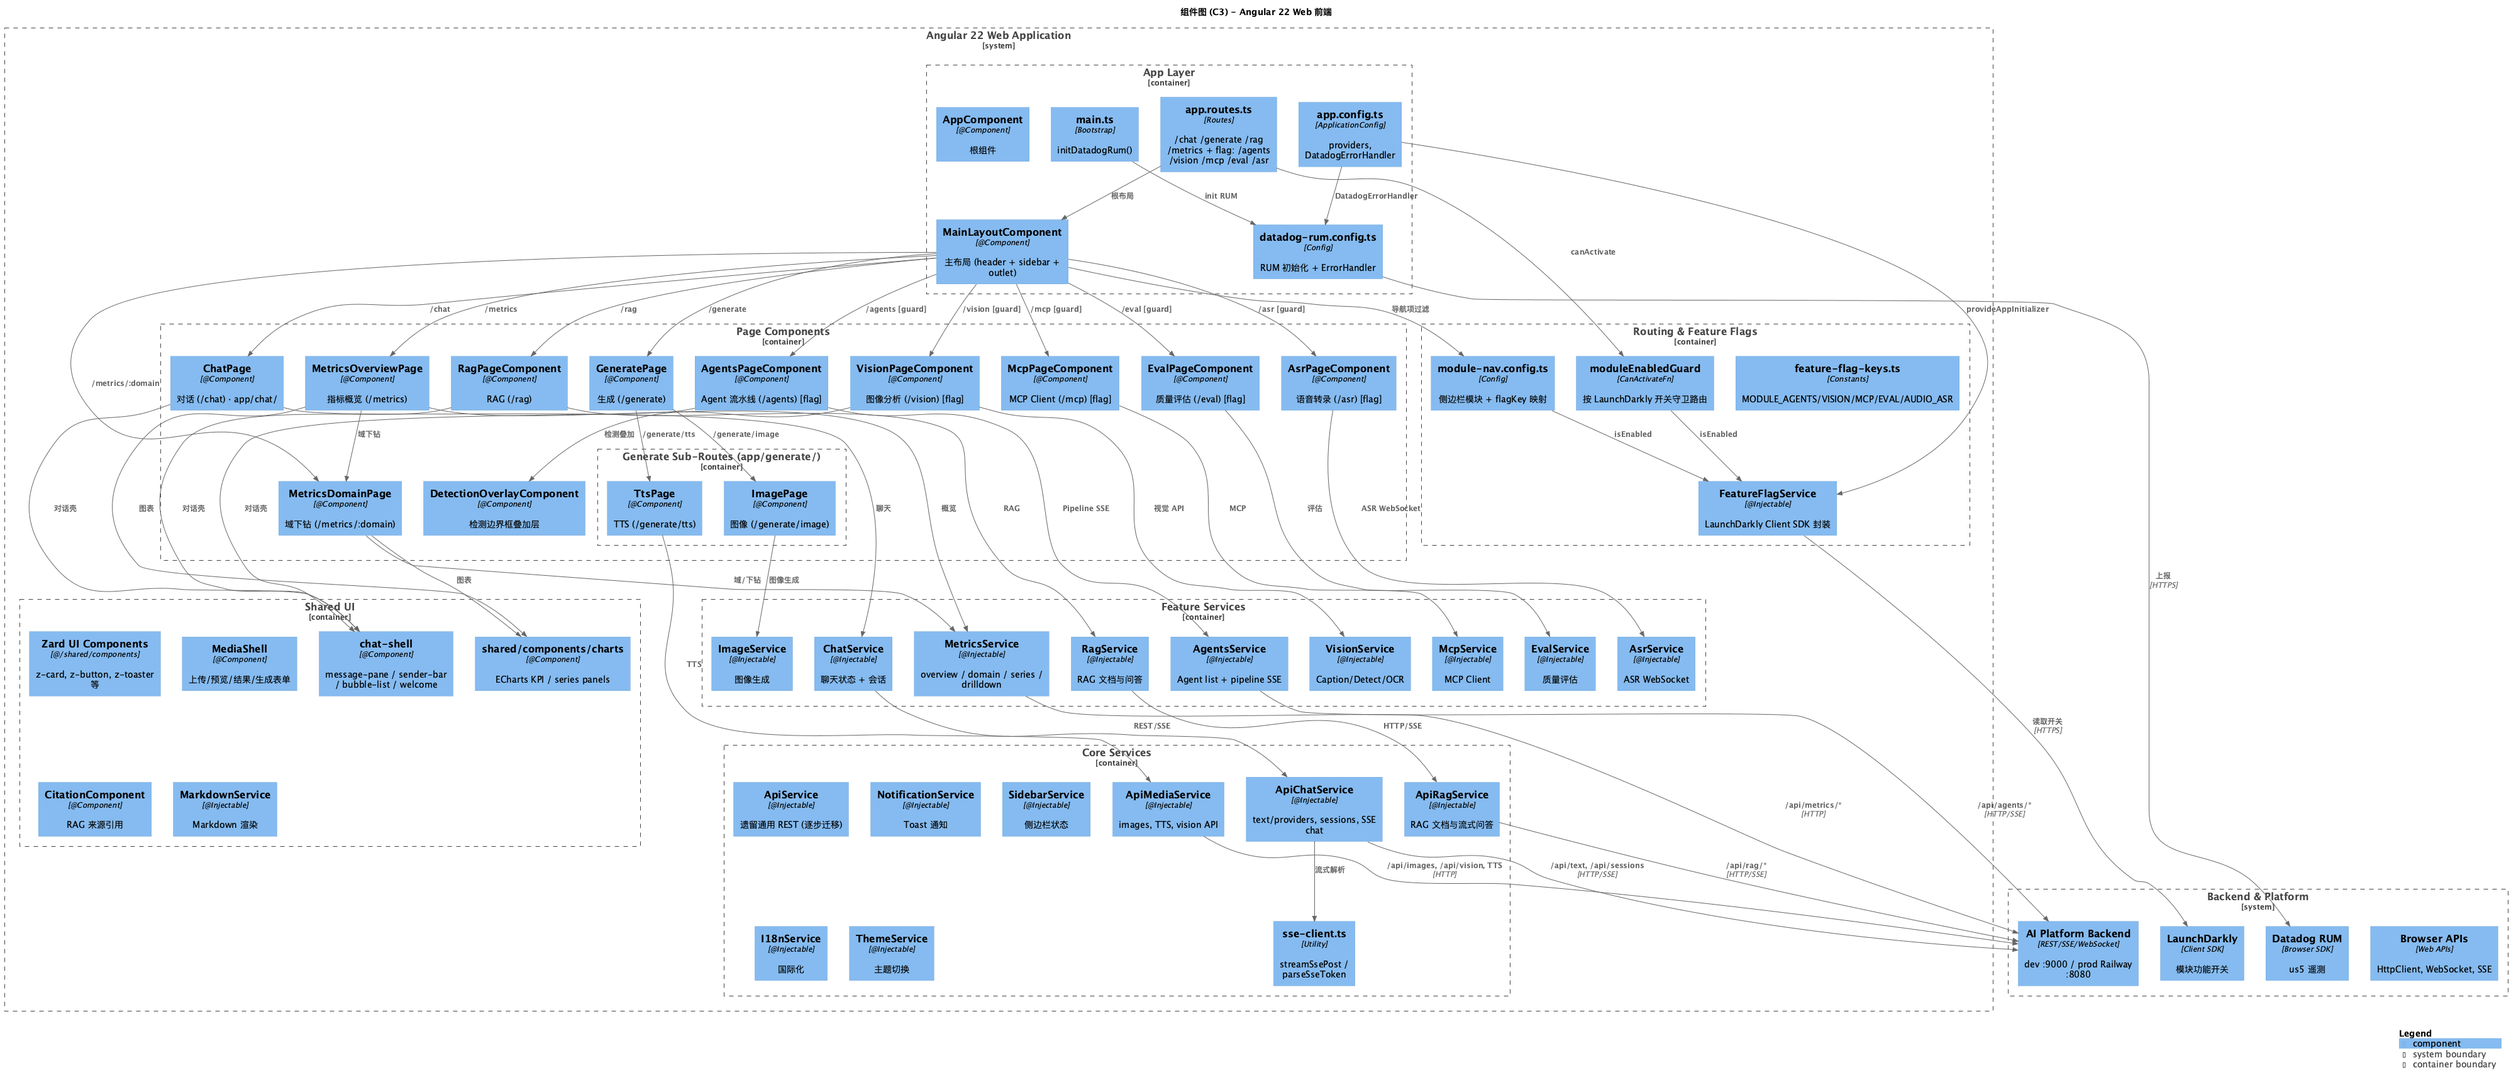
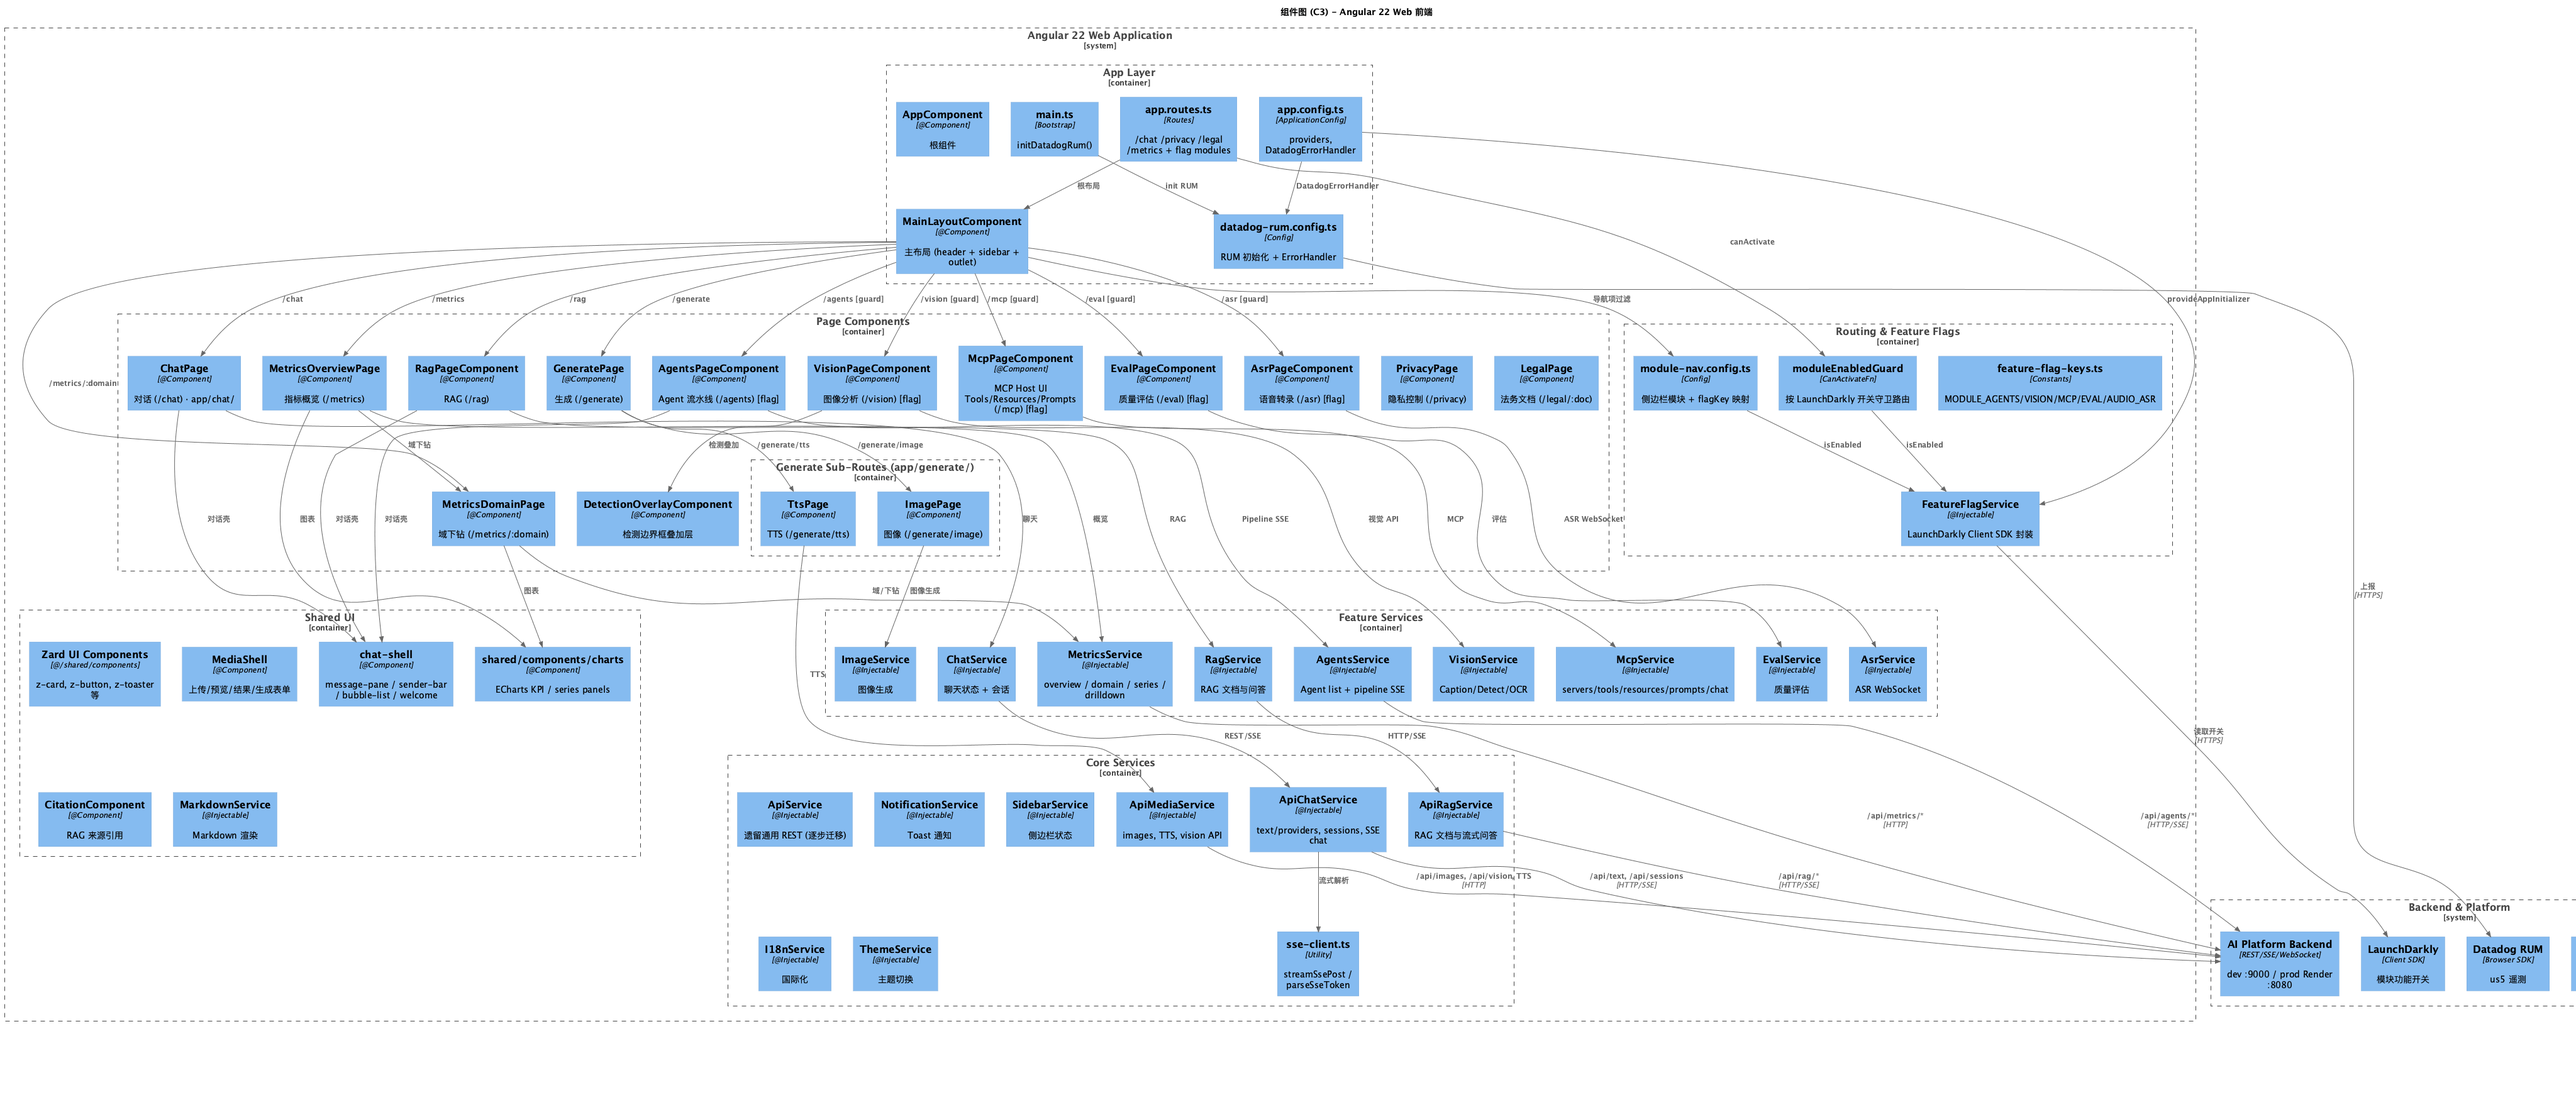
docs: sync README C4 and USM with MCP Host
Living docs should describe Tools/Resources/Prompts, per-server Host APIs, and /mcp UI so reviewers match the AI-260 implementation.

References:
- [Model Context Protocol specification](https://modelcontextprotocol.io/specification/2025-06-18)
- [Spring AI MCP Client Boot Starter](https://docs.spring.io/spring-ai/reference/api/mcp/mcp-client-boot-starter-docs.html)
- [Spring AI MCP Server Boot Starter](https://docs.spring.io/spring-ai/reference/api/mcp/mcp-server-boot-starter-docs.html)
- [C4 model](https://c4model.com/)

Jira: https://felixzhu.atlassian.net/browse/AI-260

diff --git a/docs/developer/c4-model/README.md b/docs/developer/c4-model/README.md
@@ -58,12 +58,25 @@
 - **运行时**: Spring Boot 4.1 / Java 25 / Spring AI 2.0
 - **架构**: Clean Architecture（`domain/repository/`，非 Hexagonal `domain/port/`）
 - **端口**: dev **9000** / prod **8080** (Render `PORT`)
-- **子域 (12)**: Chat / Agent / RAG / Tools / Analysis / Eval / Image / Image Analysis (`vision`) / Audio (TTS+ASR) / MCP Server / MCP Client / Metrics
+- **子域 (12)**: Chat / Agent / RAG / Tools / Analysis / Eval / Image / Image Analysis (`vision`) / Audio (TTS+ASR) / MCP Server / MCP Client Host / Metrics
 - **持久化**: H2 嵌入式（会话元数据 `JdbcChatSessionMetadataRepository` + 消息 `JdbcChatMemoryRepository` + 向量 + AI 调用事件 `ai_invocation_events`）
 - **功能开关**: LaunchDarkly（`ModuleAccessFilter` + `FeatureFlagService`，5 个模块 flag）
 - **可观测性**: Datadog RUM（前端，可选）；APM javaagent 可选（Render Free 默认关闭）
 - **外部服务 (cloud)**: DeepSeek API (LLM) / OpenAI API (DALL-E + TTS) / Serper.dev (Web 搜索)
-- **本地服务 (dev / prod 默认关闭)**: Ollama / whisper.cpp / Tesseract / ONNX Image Analysis
+- **本地服务 (dev / prod 默认关闭)**: Ollama / whisper.cpp / Tesseract / ONNX Image Analysis / External MCP Servers (STDIO)
+
+### MCP 子域（包名 `com.ai.mcp`）
+
+路由 `/mcp`（`module-mcp`），协议传输 Streamable HTTP `/mcp`；REST：
+
+| 能力 | API | 主要组件 |
+| --- | --- | --- |
+| Server 健康 / 能力 | `GET /api/mcp/health`, `GET /api/mcp/info` | `McpController`, `McpServerCapabilityCatalog` |
+| 原语注解 | Streamable HTTP `/mcp` | `AiMcpServerService`（`@McpTool` / `@McpResource` / `@McpPrompt`） |
+| Host 列举 | `GET /api/mcp/client/{servers,tools,resources,prompts}` | `McpClientController`, `McpFacade` |
+| 试聊 | `POST /api/mcp/client/chat` | `McpFacade.chatWithTools`（按 Server 注册的 tools，避免重复绑定） |
+
+前端：`McpPageComponent` — 状态栏 + Servers + Tools/Resources/Prompts 标签 + 试聊。
 
 ### Agent 子域
 
@@ -119,15 +132,15 @@ Agent system prompt 来自 `AgentPromptCatalog` → `PromptTemplates.loadAgentSy
 
 业务路径通过 `AiInvocationRecorder` 旁路写入 `ai_invocation_events`（Chat / RAG / Agents / Tools / Vision）。
 LLM 调用另由 Spring AI Micrometer Observation 导出 GenAI 语义指标（`/actuator/prometheus`）；业务域计数仍以 `AiInvocationRecorder` 为准。
-RAG 检索经 `H2SpringAiVectorStore`（Spring AI `VectorStore` SPI）+ `VectorStoreDocumentRetriever`；本地 profile 默认关闭 MCP client，避免 STDIO 阻断启动（生产用 Streamable HTTP）。
+RAG 检索经 `H2SpringAiVectorStore`（Spring AI `VectorStore` SPI）+ `VectorStoreDocumentRetriever`。MCP：本应用 Server 用 Streamable HTTP；Client Host 可连 STDIO / HTTP 远端 Server（见 `application-local.yml.example`）；prod `module-mcp=false`。
 
 ### 前端 (Web Frontend)
 
 - **框架**: Angular 22 + TypeScript
 - **路由**: `/chat` / `/generate` (image, tts) / `/rag` / `/metrics` + flag 守卫 `/agents` `/vision` `/mcp` `/eval` `/asr`
 - **对话壳**: `shared/components/chat-shell`（message-pane / sender-bar / bubble-list / welcome），供 Chat / RAG / Agents 共用
-- **实现目录**: `app/chat/`、`app/generate/{image,tts}/`、`app/metrics/`（与业务域 / 路由对齐）
-- **API 服务**: `ApiChatService` / `ApiRagService` / `ApiMediaService` / `AgentsService` / `MetricsService` + `sse-client.ts` + shared ECharts panels
+- **实现目录**: `app/chat/`、`app/generate/{image,tts}/`、`app/metrics/`、`app/mcp/`（与业务域 / 路由对齐）
+- **API 服务**: `ApiChatService` / `ApiRagService` / `ApiMediaService` / `AgentsService` / `MetricsService` / `McpService` + `sse-client.ts` + shared ECharts panels
 - **功能开关**: `FeatureFlagService` + `moduleEnabledGuard`（LaunchDarkly Client SDK）
 - **可观测性**: `datadog-rum.config.ts`
 - **端口**: dev 4200 (proxy `/api` → `:9000`) / prod Vercel 静态托管

diff --git a/README.md b/README.md
@@ -1,6 +1,6 @@
 # AI-Explore
 
-基于 Spring AI + Angular 的 AI 应用平台，支持 RAG 文档问答、Tool Calling、图像生成、语音合成、视觉分析和实时流式语音识别。
+基于 Spring AI + Angular 的 AI 应用平台，支持 RAG 文档问答、Tool Calling、MCP（Tools / Resources / Prompts）、图像生成、语音合成、视觉分析和实时流式语音识别。
 
 ## 核心功能
 
@@ -9,6 +9,7 @@
 | **AI 对话** | 多 Provider (OpenAI/Anthropic/Ollama) 切换，SSE 流式输出 | Markdown 渲染，会话管理 |
 | **RAG 文档问答** | PDF/TXT 文档上传，向量检索增强生成 | 流式响应，来源引用，**本地 Ollama 视觉理解** |
 | **Tool Calling** | 天气查询、文档搜索、Web 搜索 | 自动工具选择 |
+| **MCP Host / Server** | 标准三原语：Tools、Resources、Prompts；按远端 Server 注册 | Streamable HTTP `/mcp`；Host UI `/mcp`；`module-mcp` |
 | **图像生成** | DALL-E/FLUX 图像生成 | 多尺寸支持 |
 | **语音合成 (TTS)** | 多语言多音色，语速调节 | 实时预览，下载 MP3 |
 | **实时语音识别 (ASR)** | WebSocket 流式语音转文字 | whisper.cpp 本地免费 ASR |
@@ -125,6 +126,28 @@ wss://localhost:9000/ws/audio/transcribe
 {"type": "final", "text": "识别完成的文字"}
 ```
 
+### MCP（Host + Server）
+
+协议传输为 Spring AI Streamable HTTP（`/mcp`，需 `spring.ai.mcp.server.enabled=true`）。REST 元数据与 Host API：
+
+```bash
+# 本应用 MCP Server 能力（与 @McpTool/@McpResource/@McpPrompt 对齐）
+curl http://localhost:9000/api/mcp/info
+
+# Host：已连接 Server / Tools / Resources / Prompts
+curl http://localhost:9000/api/mcp/client/servers
+curl http://localhost:9000/api/mcp/client/tools
+curl http://localhost:9000/api/mcp/client/resources
+curl http://localhost:9000/api/mcp/client/prompts
+
+# 试聊（绑定已注册的 MCP tools）
+curl -X POST http://localhost:9000/api/mcp/client/chat \
+  -H "Content-Type: application/json" \
+  -d '{"message": "List available tools briefly."}'
+```
+
+前端 Lab → **MCP**（`/mcp`，`module-mcp`）：状态栏、Servers、Tools/Resources/Prompts 标签与试聊。详见 [API 文档 · MCP](docs/developer/api.md#mcp-server-api)。
+
 ## 项目结构
 
 ```
@@ -140,7 +163,11 @@ explore-ai/
 │   ├── audio/          # 语音合成 + ASR
 │   ├── analysis/       # 文本结构化分析
 │   ├── eval/           # Chat 质量评估 — 可选模块
-│   ├── mcp/            # MCP Server/Client — 可选模块
+│   ├── mcp/            # MCP Server + Client Host — 可选模块
+│   │   ├── domain/     # Tool/Resource/Prompt 定义、McpClientRepository
+│   │   ├── application/# McpFacade
+│   │   ├── infrastructure/  # AiMcpServerService、SpringAiMcpClientRepository
+│   │   └── web/        # /api/mcp、/api/mcp/client
 │   └── common/         # 共享配置、LLM 工厂、全局异常处理
 │
 ├── src/main/web/       # Angular 22 前端
@@ -148,12 +175,14 @@ explore-ai/
 │       ├── chat/       # 对话
 │       ├── generate/   # 生成（image / tts）
 │       ├── rag/        # RAG 页面
+│       ├── mcp/        # MCP Host UI（Servers + 三原语 + 试聊）
 │       └── vision/     # 图像分析（可按环境关闭）
 │
-├── docs/c4-model/           # C4 架构图
+├── docs/developer/c4-model/  # C4 架构图（.puml + png）
+├── docs/product-owner/       # 用户故事地图
 ```
 
-云端部署（Render Free + Vercel）默认关闭 Vision、whisper ASR、MCP、Eval；本地开发默认全部启用。
+云端部署（Render Free + Vercel）默认关闭 Vision、whisper ASR、MCP、Eval；本地开发默认全部启用。MCP Client 本地可用 STDIO / Streamable HTTP 连接外部 Server（见 `application-local.yml.example`）。
 
 ---
 

diff --git a/docs/Glossary.md b/docs/Glossary.md
@@ -70,7 +70,7 @@ This document defines the project **Ubiquitous Language**. English terms are the
 
 **Sidebar IA groups (frontend):** `MODULE_NAV_TABS` in `src/main/web/app/core/config/module-nav.config.ts` orders live nav as **Work** (`/chat` → `/rag` → `/metrics` → `/agents`), **Create** (`/generate`), **Lab** (`/vision`, `/asr`, `/mcp`, `/eval`, flag-gated). Default route remains `/chat`. Do not wire planned AIOps keys into these groups until productized.
 
-**Page layout by scenario (frontend):** each live route uses a task-fit shell — Chat (conversation column); RAG (document rail + Q&A); Agent (canvas + results rail with input inside the rail); Generation image/TTS and Vision (form ‖ preview/result); ASR (connection bar + live transcript); MCP (status bar + tools list); Eval (input ‖ scores); Metrics (KPI strip + charts + drill-down table).
+**Page layout by scenario (frontend):** each live route uses a task-fit shell — Chat (conversation column); RAG (document rail + Q&A); Agent (canvas + results rail with input inside the rail); Generation image/TTS and Vision (form ‖ preview/result); ASR (connection bar + live transcript); MCP (status bar + Servers + Tools/Resources/Prompts tabs + try-chat); Eval (input ‖ scores); Metrics (KPI strip + charts + drill-down table).
 
 ```mermaid
 flowchart TB
@@ -443,7 +443,7 @@ UI shell only (no dedicated Java package). Routes under `/generate` host **Image
 | Tool Callback                        | 工具回调    | Spring AI mechanism for LLM-initiated tool invocation      | Technical | `ToolCallback`, `McpToolCallbackRegistry`     | Bridges LLM and Tools               |
 | Advisor                              | 顾问      | Interceptor/enhancer in the ChatClient call chain          | Technical | Spring AI Advisors                            | e.g. structured output              |
 | Multimodal                           | 多模态     | Input combining text and other modalities (e.g. image)     | Technical | `VisionChatUseCase`                           | Ollama qwen3.5                      |
-| Model Context Protocol (MCP)         | 模型上下文协议 | Standard protocol for exposing Tools and Resources to LLMs | Protocol  | `AiMcpServerService`                          | Anthropic-initiated standard        |
+| Model Context Protocol (MCP)         | 模型上下文协议 | Standard protocol for Tools, Resources, and Prompts with LLMs | Protocol  | `AiMcpServerService`                          | Anthropic-initiated; Spring AI Host/Server |
 | Orchestrator                         | 编排器     | Agent that delegates tasks to specialized Subagents        | Pattern   | `.cursor/agents/orchestrator.md`              | Cursor agent routing (dev tooling)  |
 | Subagent                             | 子智能体    | Specialized Agent focused on a single responsibility       | Pattern   | `.cursor/agents/*.md`                         | e.g. domain-expert, developer       |
 | Grounding                            | 事实锚定    | Constraining LLM answers to retrieved Source Documents     | Pattern   | `LocalizedRagPromptBuilder`, `RagChatUseCase` | Reduces unsupported claims          |

diff --git a/docs/product-owner/User-Story-Map.md b/docs/product-owner/User-Story-Map.md
@@ -62,6 +62,12 @@ title: AI Chat & Agent Platform - 用户故事地图
 **I want** 在对话中调用已接入的外部工具  
 **So that** AI 能完成查天气、搜文档等超出纯文本的任务
 
+### MCP 标准三原语与多 Server Host
+
+**As a** 最终用户 / 平台开发者  
+**I want** 在 `/mcp` 按已连接 Server 查看 Tools、Resources、Prompts，且本应用对外 MCP Server 真实暴露这些能力  
+**So that** 对话与外部 Host 都能按业界标准使用 MCP
+
 ### Vision 多模态 RAG
 
 **As a** 最终用户  
@@ -111,12 +117,6 @@ title: AI Chat & Agent Platform - 用户故事地图
 **So that** 研判结果可复核、可汇报
 
 ## 进行中
-
-### MCP 标准三原语与多 Server Host
-
-**As a** 最终用户 / 平台开发者  
-**I want** 在 `/mcp` 按已连接 Server 查看 Tools、Resources、Prompts，且本应用对外 MCP Server 真实暴露这些能力  
-**So that** 对话与外部 Host 都能按业界标准使用 MCP
 
 ### 商业化底座：配额、法务页与账号雏形
 
